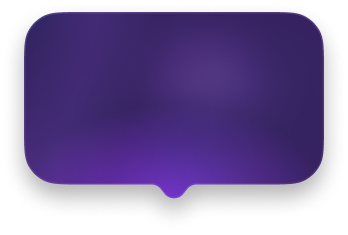
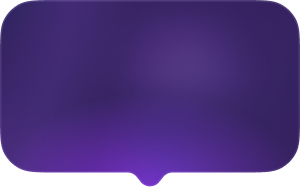
Update mobile UI layout

diff --git a/src/assets/styles/sidebar.css b/src/assets/styles/sidebar.css
@@ -188,7 +188,7 @@
   .sidebar-content-section:has(.sidebar-quick-suggestion-item) {
     justify-content: center;
     align-items: center;
-    min-height: 100%;
+    min-height: calc(100% - 140px);
     padding-top: 0;
   }
 
@@ -198,8 +198,9 @@
     width: 100%;
     max-width: 400px;
     align-self: center;
-    padding: 20px 10px !important;
+    padding: 16px 10px !important;
     border-radius: 10px !important;
+    border: 1px solid rgba(255, 255, 255, 0.05);
   }
 
   .sidebar-quick-suggestion-text {
@@ -348,6 +349,7 @@ textarea.sidebar-textarea-field:-ms-input-placeholder {
   position: relative;
   min-width: 60px;
   display: inline-flex;
+  justify-content: center;
   align-items: center;
   gap: 8px;
   flex-wrap: wrap;
@@ -358,6 +360,7 @@ textarea.sidebar-textarea-field:-ms-input-placeholder {
     display: inline-flex;
     align-items: center;
     flex-wrap: nowrap;
+    min-width: auto;
   }
 
   .sidebar-message-user .sidebar-message-content > span:first-child {
@@ -667,6 +670,7 @@ textarea.sidebar-textarea-field:-ms-input-placeholder {
 
   .sidebar-logo-container {
     border-radius: 0;
+    position: fixed;
   }
 
   /* Adjust font sizes for mobile and tablet */

diff --git a/src/index.css b/src/index.css
@@ -84,16 +84,16 @@ body::-webkit-scrollbar {
   box-shadow: 0px 8px 16px 0px rgba(0, 0, 0, 0.3); */
   background: url(../src/assets/images/map-pin.png) no-repeat center center / 100% 100%;
     box-shadow: none;
-    padding: 10px 19px !important;
+    padding: 10px 16px !important;
     width: 100%;
 }
 
 /* .popup-body p:last-child{padding-bottom: 16px;} */
-.leaflet-popup{margin-bottom: 0;bottom: -16px !important;}
+.leaflet-popup{margin-bottom: 0;bottom: 7px !important;}
 .leaflet-popup-content {
-  margin: 16px 16px 46px 16px !important;
-  min-width: 200px;
-  width: 200px !important;
+  margin: 6px 0px 22px 0px !important;
+  min-width: 180px;
+  width: 180px !important;
 }
 
 .leaflet-popup-tip {
@@ -143,7 +143,7 @@ body::-webkit-scrollbar {
 
 .popup-body {
   text-align: left;
-  max-height: 58px;
+  max-height: 54px;
   overflow: auto;
 }
 .popup-body::-webkit-scrollbar, .address-scroll::-webkit-scrollbar {

diff --git a/src/assets/styles/leaflet-map.css b/src/assets/styles/leaflet-map.css
@@ -13,7 +13,7 @@
 
 /* Custom Popup Content */
 .custom-popup-content {
-  min-width: 200px;
+  min-width: 180px;
 }
 
 .popup-header {
